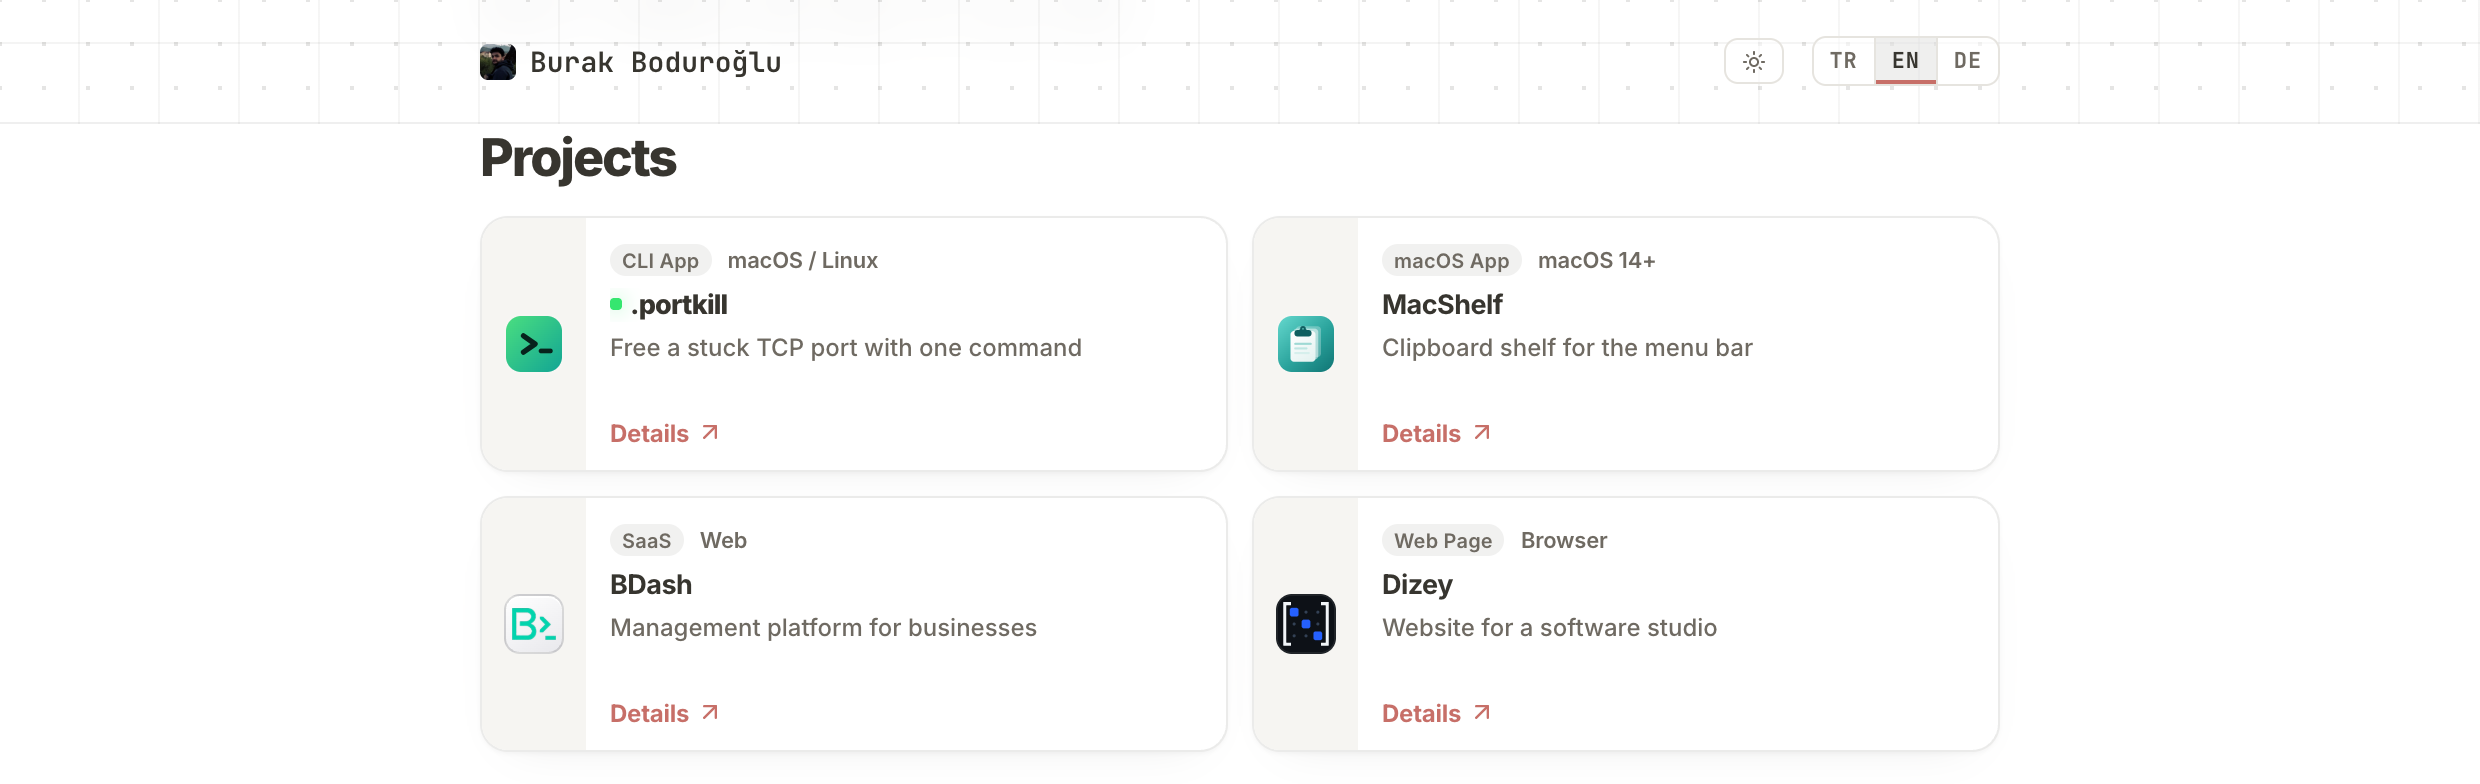
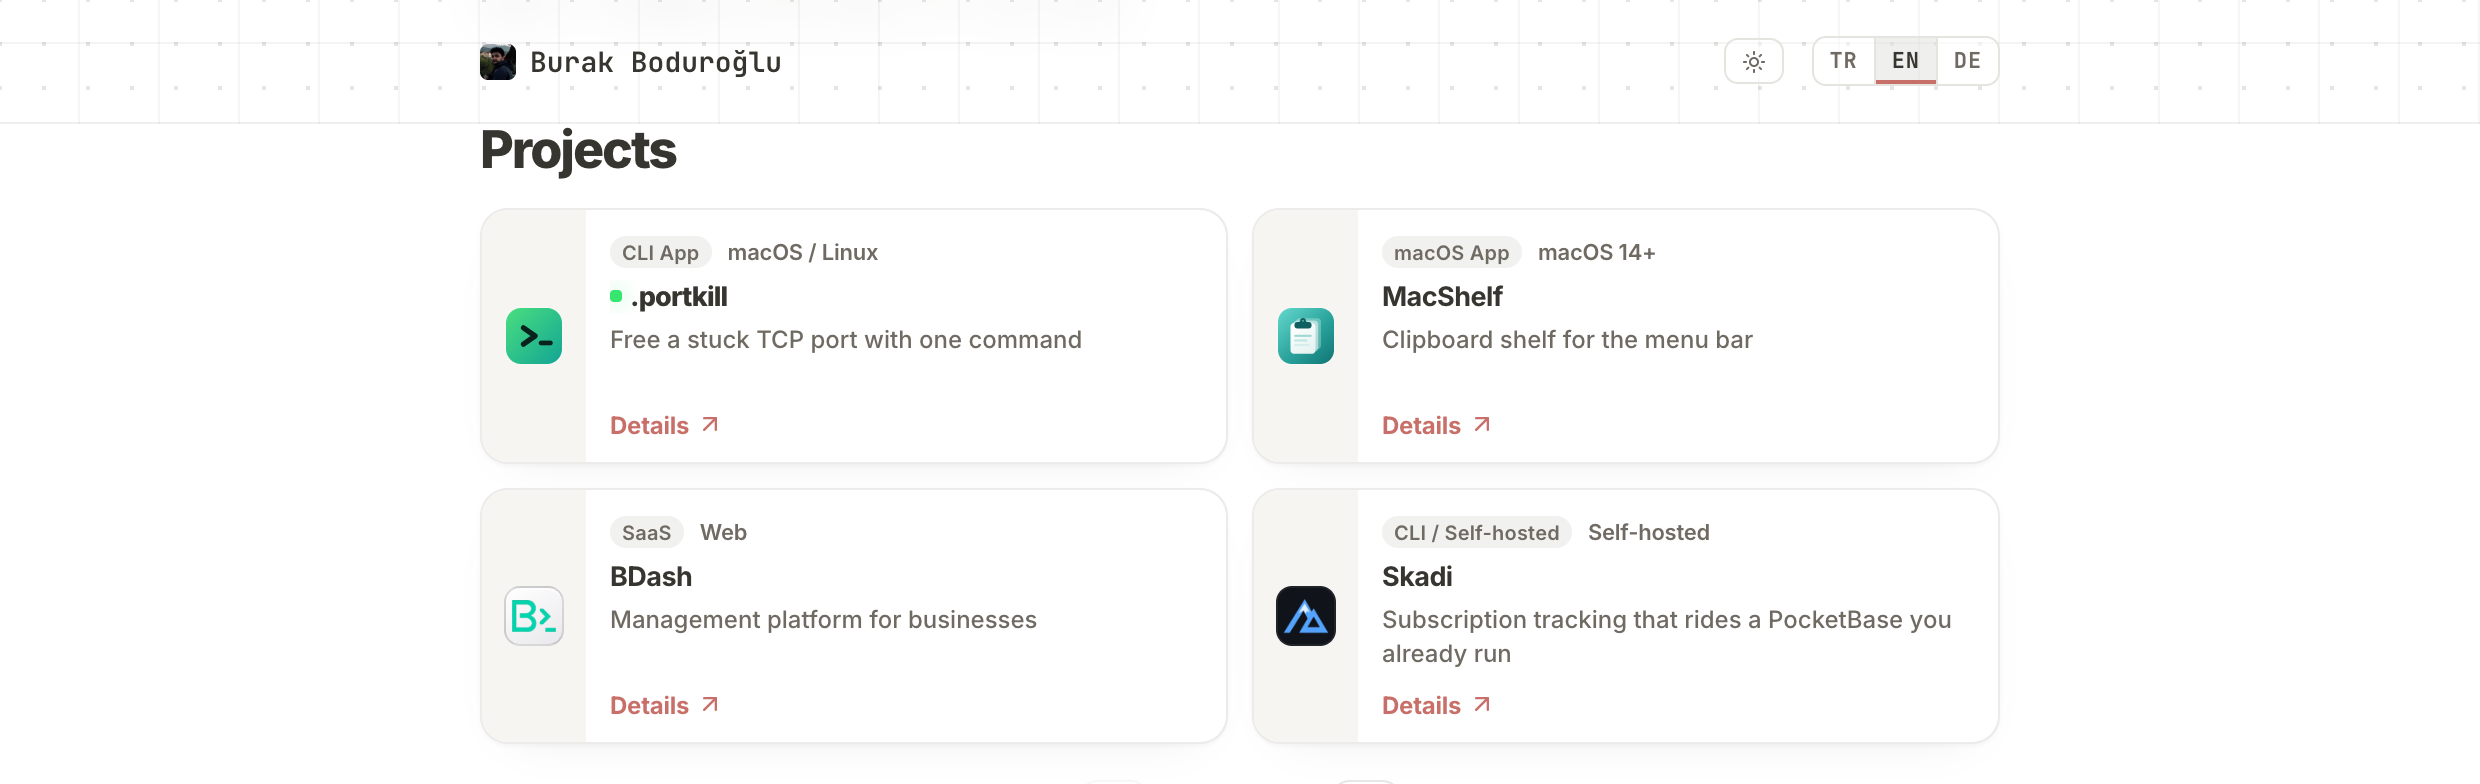
feat(apps): add Skadi to the project shelf
Skadi takes the fourth slot on the first page, which pushes Dizey to the
second and the shelf to three pages at four cards each. Its mark ships its
own near-black plate, so the tile reuses Dizey's edge-to-edge rule instead
of the light plate other logos sit on.

The README is fetched for all three locales; only English exists upstream,
so the page says so. The shelf screenshot in the README was regenerated to
match what the first page now shows.

diff --git a/src/lib/i18n/tr.ts b/src/lib/i18n/tr.ts
@@ -213,6 +213,19 @@ const tr = {
       heroText:
         'BDash ile işletmenin günlük operasyonlarını tek bir web panelinden takip edersin.',
     },
+    skadi: {
+      category: 'CLI / Self-hosted',
+      subtitle: 'Hâlihazırda çalışan bir PocketBase’e binen abonelik takibi',
+      description:
+        'Var olan bir PocketBase’in içine kopyalanan üç migration, iki hook dosyası ve tek bir statik sayfa — konteyner, ikinci veritabanı ya da fazladan port yok. Bir link yapıştırınca isim ve logoyu sunucu çözüyor; ödeme tarihleri kendiliğinden ilerliyor; toplamlar TRY, USD, EUR veya GBP cinsinden veriliyor ve bayat kur gizlenmek yerine bayat olarak etiketleniyor.',
+      stack: 'JavaScript / PocketBase',
+      platform: 'Self-hosted',
+      price: 'Ücretsiz',
+      action: 'İndir',
+      heroTitle: 'Abonelikler, zaten sahip olduğun sunucuda.',
+      heroText:
+        'Skadi kurup dağıttığın bir uygulama değil. Veritabanını, kimlik doğrulamasını ve yedeğini zaten çalıştıran bir PocketBase örneğinin içine giren birkaç dosya.',
+    },
     dizey: {
       category: 'Web Sitesi',
       subtitle: 'Yazılım stüdyosu için web sitesi',

diff --git a/src/lib/i18n/de.ts b/src/lib/i18n/de.ts
@@ -213,6 +213,19 @@ const de = {
       heroText:
         'Mit BDash behältst du das Tagesgeschäft über ein einziges Web-Dashboard im Blick.',
     },
+    skadi: {
+      category: 'CLI / Self-hosted',
+      subtitle: 'Abo-Tracking auf einer PocketBase, die ohnehin läuft',
+      description:
+        'Drei Migrationen, zwei Hook-Dateien und eine statische Seite, kopiert in eine bestehende PocketBase — kein Container, keine zweite Datenbank, kein zusätzlicher Port. Ein eingefügter Link wird serverseitig zu Name und Logo aufgelöst, Abbuchungstermine rücken von selbst weiter, und Summen erscheinen in TRY, USD, EUR oder GBP, wobei veraltete Kurse als solche gekennzeichnet statt verschwiegen werden.',
+      stack: 'JavaScript / PocketBase',
+      platform: 'Self-hosted',
+      price: 'Kostenlos',
+      action: 'Laden',
+      heroTitle: 'Abos auf dem Server, den du schon hast.',
+      heroText:
+        'Skadi ist keine Anwendung, die du deployst. Es sind ein paar Dateien in einer PocketBase-Instanz, die Datenbank, Auth und Backups längst selbst betreibt.',
+    },
     dizey: {
       category: 'Website',
       subtitle: 'Website für ein Softwarestudio',

diff --git a/src/lib/i18n/en.ts b/src/lib/i18n/en.ts
@@ -213,6 +213,19 @@ const en = {
       heroText:
         'BDash lets you keep an eye on day-to-day operations from a single web dashboard.',
     },
+    skadi: {
+      category: 'CLI / Self-hosted',
+      subtitle: 'Subscription tracking that rides a PocketBase you already run',
+      description:
+        'Three migrations, two hook files and one static page copied into an existing PocketBase — no container, no second database, no extra port. Paste a link and the server resolves a name and a logo; charge dates roll forward on their own; totals are quoted in TRY, USD, EUR or GBP with stale rates labelled rather than hidden.',
+      stack: 'JavaScript / PocketBase',
+      platform: 'Self-hosted',
+      price: 'Free',
+      action: 'Get',
+      heroTitle: 'Subscriptions on the server you already have.',
+      heroText:
+        'Skadi is not an application you deploy. It is a handful of files inside a PocketBase instance that is already running its own database, auth and backups.',
+    },
     dizey: {
       category: 'Web Page',
       subtitle: 'Website for a software studio',

diff --git a/src/styles.css b/src/styles.css
@@ -556,6 +556,13 @@ blockquote {
     linear-gradient(135deg, #051416, #0d2831 54%, #111827);
 }
 
+.store-app-icon.skadi,
+.project-hero.skadi {
+  --accent-plate:
+    radial-gradient(circle at 26% 16%, rgba(96, 165, 250, 0.24), transparent 30px),
+    linear-gradient(135deg, #0a1020, #16233f 54%, #0b1120);
+}
+
 .store-app-icon.dizey,
 .project-hero.dizey {
   --accent-plate:
@@ -636,7 +643,8 @@ blockquote {
 /* Finished app icons (rounding and fill baked into the SVG) fill the tile
    edge to edge instead of sitting inset on the light plate. MacShelf uses the
    shared `dark` accent. */
-.store-app-icon.dizey.has-logo {
+.store-app-icon.dizey.has-logo,
+.store-app-icon.skadi.has-logo {
   border-color: rgba(255, 255, 255, 0.08);
   background: #0d1117;
   box-shadow: none;
@@ -651,6 +659,7 @@ blockquote {
 }
 
 .store-app-icon.dizey img,
+.store-app-icon.skadi.has-logo img,
 .store-app-icon.portfolio.has-logo img,
 .store-app-icon.portkill.has-logo img {
   width: 100%;

diff --git a/src/lib/data/apps.ts b/src/lib/data/apps.ts
@@ -55,6 +55,22 @@ const apps: AppMeta[] = [
     featured: true,
   },
   {
+    id: 'skadi',
+    categoryKey: 'cli',
+    categoryKeys: ['cli', 'productivity'],
+    title: 'Skadi',
+    repo: 'https://github.com/burakboduroglu/skadi',
+    link: 'https://www.npmjs.com/package/@burakboduroglu/skadi',
+    stars: '1',
+    forks: '0',
+    icon: 'S',
+    logoUrl: 'https://raw.githubusercontent.com/burakboduroglu/skadi/main/assets/logo.png',
+    accent: 'skadi',
+    install: [
+      { manager: 'bun', command: 'bunx @burakboduroglu/skadi install /path/to/pocketbase' },
+    ],
+  },
+  {
     id: 'dizey',
     categoryKey: 'web',
     title: 'Dizey',

diff --git a/src/lib/data/readme-manifest.ts b/src/lib/data/readme-manifest.ts
@@ -15,6 +15,9 @@ export const readmeManifest: Partial<Record<AppId, Locale[]>> = {
   "macshelf": [
     "en"
   ],
+  "skadi": [
+    "en"
+  ],
   "penote": [
     "en"
   ],

diff --git a/src/lib/types/app.d.ts b/src/lib/types/app.d.ts
@@ -2,6 +2,7 @@ export type AppId =
   | 'macshelf'
   | 'portkill'
   | 'penote'
+  | 'skadi'
   | 'bdash'
   | 'alice'
   | 'betus-design'

diff --git a/CHANGELOG.md b/CHANGELOG.md
@@ -8,6 +8,9 @@ follows [Semantic Versioning](https://semver.org/spec/v2.0.0.html).
 
 ### Added
 
+- Skadi on the project shelf, with its own page at `/projects/skadi` and its
+  README rendered underneath. It takes the fourth slot on the first page, so
+  Dizey moves to the second and the shelf now runs to three pages.
 - The site has its own mark: a collar and tie on the warm plate the portfolio
   already used as its accent. It is the README header, the tile on the project
   shelf and the hero of `/projects/portfolio`, all from the single SVG in
